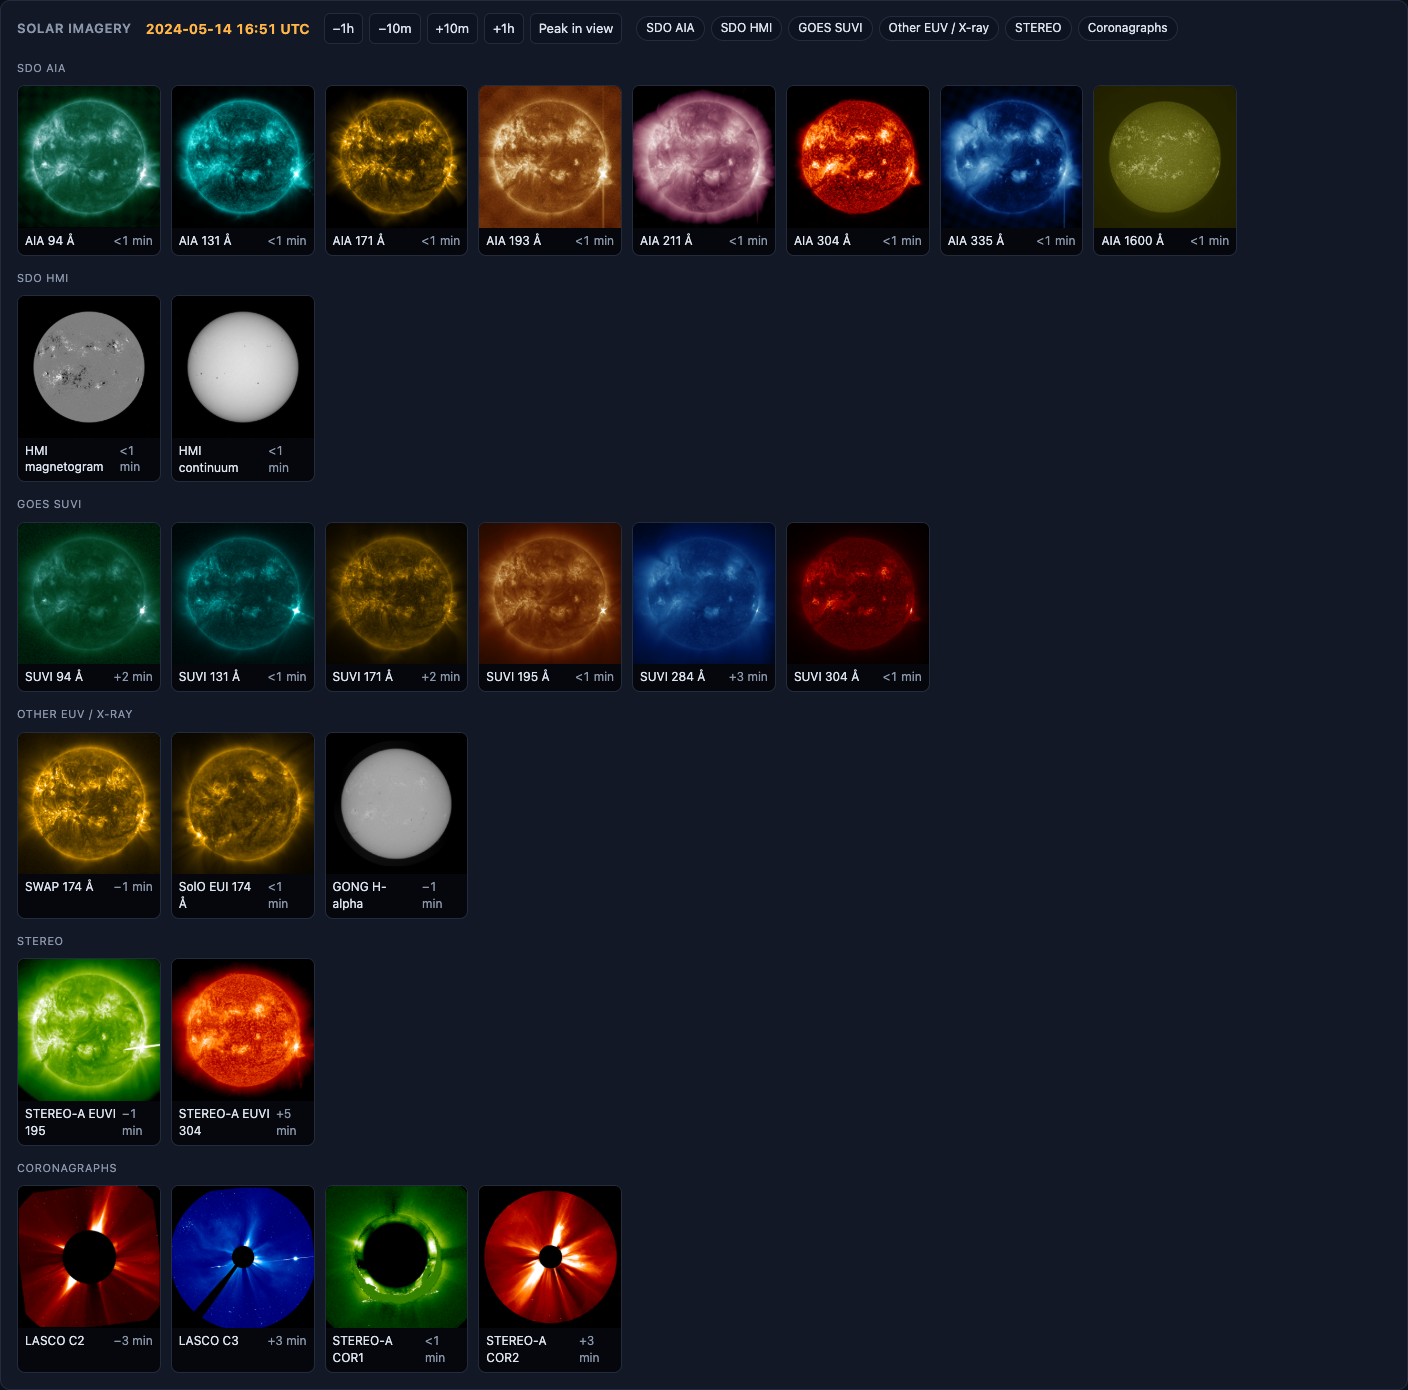
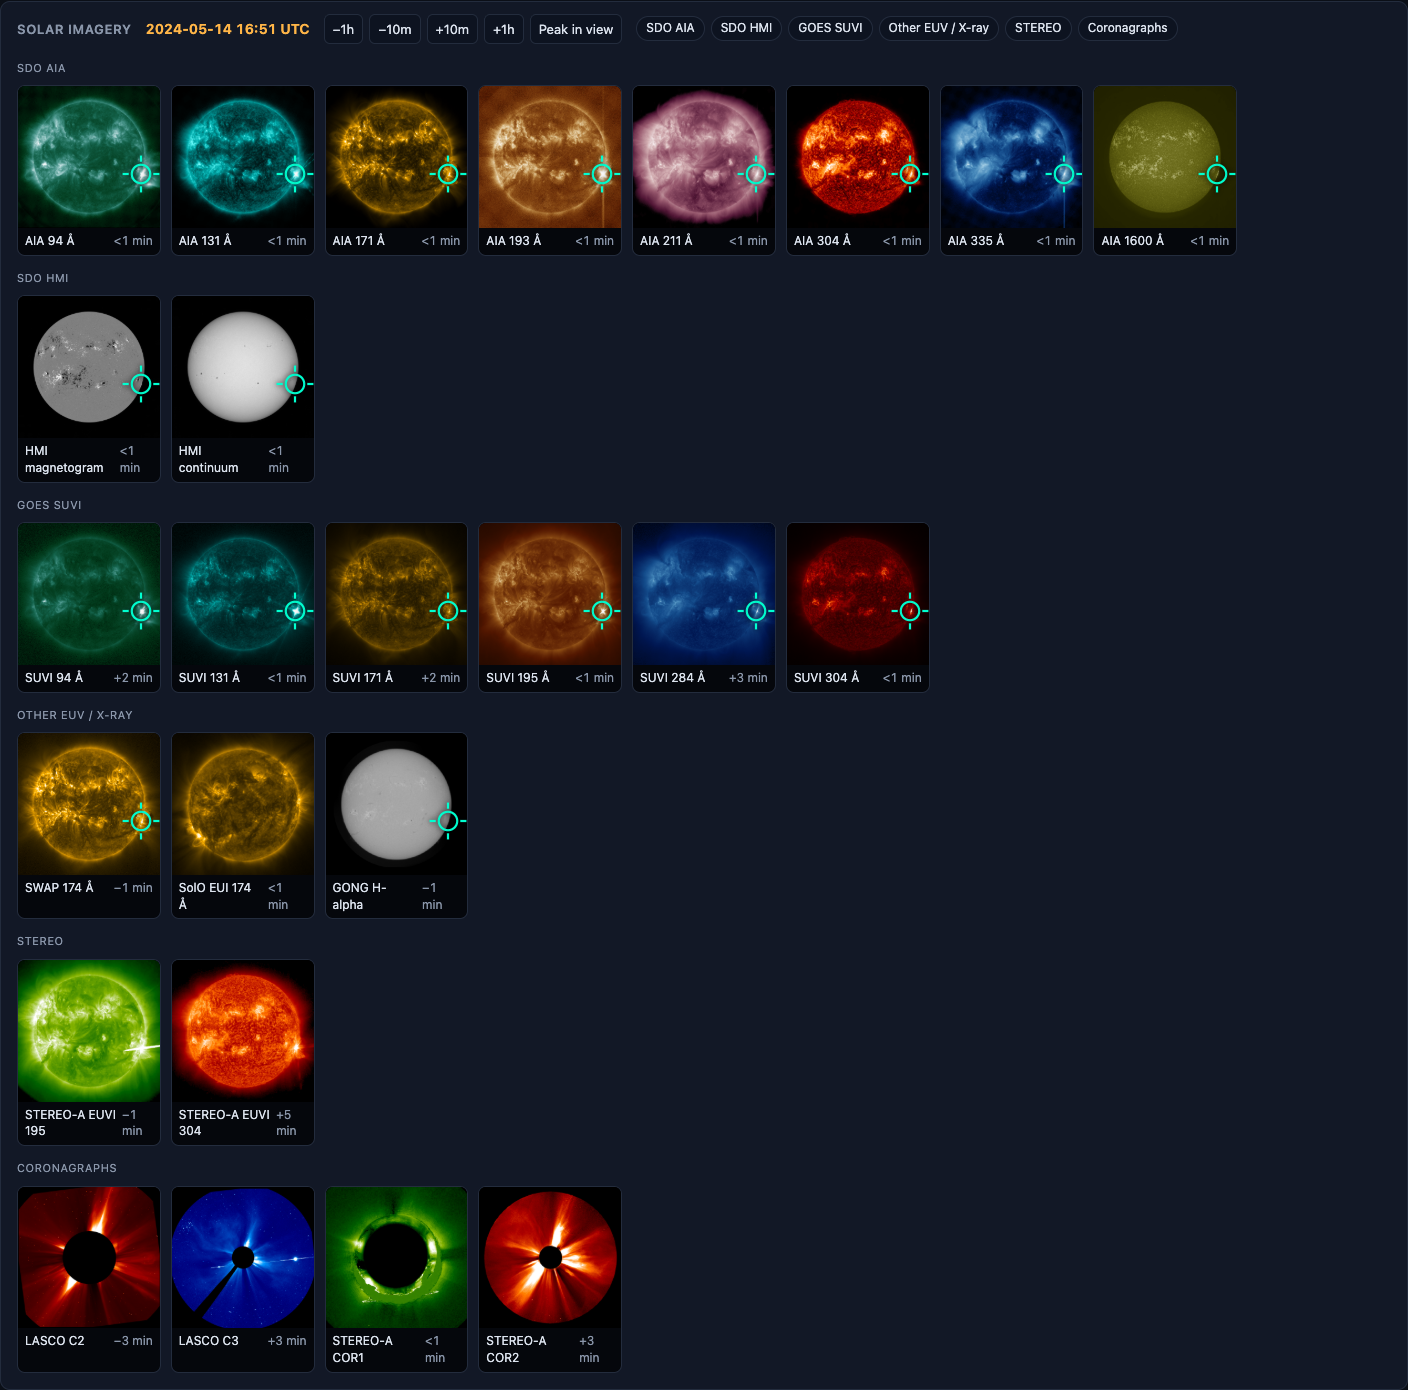
README: document impact card, Earth effects, CME chain and flare location; new screenshots

diff --git a/README.md b/README.md
@@ -20,6 +20,13 @@ watching at the moment you click.
 - **Solar imagery at any moment.** Click anywhere on the chart to see images from every sensor imaging at that
   time: SDO AIA & HMI, GOES SUVI, SOHO EIT/MDI/LASCO, STEREO, PROBA2, Hinode, GONG, TRACE, Yohkoh and more.
   Enlarge any image and step or play through time.
+- **Flare impact card.** For any flare: when it happened at the Sun vs when its X-rays reached Earth, the
+  power and energy that hit Earth, the radio-blackout level, and a globe of where shortwave radio was
+  knocked out.
+- **Effects at Earth.** Solar wind, Kp, Dst and energetic protons on the same timeline as the X-rays.
+- **CME tracking.** Coronal mass ejections on the chart, linked to the shock that hit Earth and the
+  geomagnetic storm it caused.
+- **Flare location.** A crosshair marks where the flare happened on every Earth-view solar image.
 - **Daily summary.** Flare counts per day and F10.7 radio flux.
 - **CSV export** of the 1-minute data, and **bookmarkable views** (the time window is kept in the URL).
 - **LCARS skin.** One click turns the interface into a starship-style console.
@@ -87,6 +94,51 @@ at its peak.
 
 ![Zoomed on the X8.7 flare of 2024-05-14](docs/screenshots/flare-zoom.png)
 
+### Flare impact card
+
+![Flare impact card for the X2.2 flare of 2024-05-09](docs/screenshots/impact.png)
+
+Select a flare (click it in the list, or click the chart during a flare) to open its impact card:
+
+- **Light travel.** X-rays take 490–507 s to cross the 0.98–1.02 AU gap, so the flare happened about
+  8 m 20 s before GOES saw it. The card shows both times and the Sun–Earth distance on that date.
+- **Energy at Earth.** Peak power is the peak flux × Earth's cross-section (πR⊕²). Energy is SWPC's
+  integrated flux × πR⊕², shown in kilotons of TNT. Earth intercepts only about 4.5×10⁻¹⁰ of what the flare
+  radiates.
+- **Radio blackout.** The NOAA R-scale level (R1 at M1, R2 at M5, R3 at X1, R4 at X10, R5 at X20).
+- **Globe.** Centred on the subsolar point (where the Sun was overhead), coloured by NOAA's D-RAP estimate
+  of the highest HF frequency absorbed, (10·log₁₀F + 65) MHz × cos^0.75 of the solar zenith angle. X-rays
+  only affect the dayside and are absorbed 60–100 km up; they never reach the ground. If the flare's CME
+  caused a storm, a dashed line shows the approximate auroral-oval edge for that storm's peak Kp.
+- **Consequences.** The linked CME's speed → when its shock reached Earth → the storm's G level, Kp and Dst.
+
+### Effects at Earth
+
+![Effects at Earth during the May 2024 storm](docs/screenshots/earth-effects.png)
+
+Stacked under the X-ray chart on the same time axis, so zooming or clicking either one drives both:
+
+| Row | What it shows | Source |
+|---|---|---|
+| Speed / density | Solar-wind speed (km/s) and proton density (/cm³) | NASA OMNI (1-min for windows ≤ 20 days, hourly otherwise) + SWPC real-time |
+| Bz | Interplanetary magnetic field north–south component (nT, GSM). Strongly negative Bz drives storms | OMNI + SWPC real-time |
+| Kp | Planetary K index, 3-hourly bars coloured by NOAA G-scale (Kp 5 = G1 … 9 = G5) | OMNI + SWPC |
+| Dst | Ring-current storm index (nT). Lower means a stronger storm | OMNI + Kyoto via SWPC |
+| >10 MeV protons | Energetic proton flux (pfu) with S-scale guides (10 = S1 … 10⁵ = S5) | OMNI to early 2020; GOES-16+ SGPS after (computed from the differential channels, matching SWPC to ~5 %) |
+
+Notes: OMNI lags real time by about 10 days and SWPC's live solar-wind file covers only the last ~24 h, so
+there's a short solar-wind gap just before "now". Proton data from 2020 on is downloaded per month, so zoom
+in to ≤ 200 days to load it.
+
+### CMEs and what they caused
+
+![CMEs and shock arrivals on the X-ray chart, May 2024](docs/screenshots/cme-chain.png)
+
+Blue diamonds mark CME launches (bigger = faster). A dashed arrow runs to the shock's arrival at Earth,
+labelled with the storm level it produced. Hover a diamond for speed, type and source region. From 2010 the
+links come from NASA's DONKI database. Before 2010 CMEs come from the SOHO/LASCO CDAW catalog, and are matched
+to flares by timing only.
+
 ### Solar imagery
 
 Click anywhere on the chart, or on a flare, to choose a moment. A dotted line marks it on the chart, and the
@@ -102,6 +154,11 @@ imagery panel shows the closest image from every sensor that was operating then.
 - **Click a tile** to open it large. Use **◀ prev / next ▶** (or ← →) to step through time, and **▶ play**
   (or space) to animate it, with a step of 2 min to 1 h. **Open in Helioviewer** opens that moment in
   Helioviewer for deeper analysis.
+
+- When a flare is selected, a **crosshair** marks where it happened on every image taken from Earth's
+  point of view (SDO, GOES SUVI, SOHO, PROBA2, Hinode, GONG, TRACE, Yohkoh). STEREO and Solar Orbiter view
+  the Sun from elsewhere, so they don't get one. Locations come from the Heliophysics Event Knowledgebase
+  (HEK), with NASA DONKI as a fallback.
 
 ![Enlarged AIA 131 Å image at the flare peak](docs/screenshots/lightbox.png)
 
@@ -138,6 +195,8 @@ toggles the console chirps. Press **Standard** to switch back; the app remembers
 
 ![LCARS skin](docs/screenshots/lcars.png)
 
+![LCARS impact analysis](docs/screenshots/lcars-impact.png)
+
 <details>
 <summary>Full LCARS page</summary>
 
@@ -156,6 +215,12 @@ All sources are public and free. Nothing needs an account or key.
 | Flare event lists | NOAA SWPC Warehouse FTP `ftp.swpc.noaa.gov/pub/warehouse` (`YYYY_events`) | 1996 → today |
 | F10.7 / sunspot number | SWPC Warehouse `YYYY_DSD.txt` | 1996 → last full year |
 | Solar images | [Helioviewer API](https://api.helioviewer.org/docs/v2/) (`getClosestImage`, `takeScreenshot`) | 1991 → now |
+| Solar wind, Kp, Dst, protons | NASA [OMNI](https://omniweb.gsfc.nasa.gov/) via the [CDAWeb HAPI server](https://cdaweb.gsfc.nasa.gov/hapi) (`OMNI2_H0_MRG1HR`, `OMNI_HRO_1MIN`, `OMNI_HRO_5MIN`) | 1981 → ~10 days ago |
+| >10 MeV protons (2020 →) | NOAA NCEI GOES-16+ [SGPS](https://data.ngdc.noaa.gov/platforms/solar-space-observing-satellites/goes/goes16/l2/data/sgps-l2-avg5m/) 5-min files | 2020 → yesterday |
+| Real-time tail | NOAA SWPC `json/rtsw/*`, `products/noaa-planetary-k-index.json`, `products/kyoto-dst.json`, integral protons | last 1–7 days |
+| CMEs, shocks, storms | NASA CCMC [DONKI API](https://ccmc.gsfc.nasa.gov/tools/DONKI/) (`CME`, `FLR`, `IPS`, `GST`) | 2010 → |
+| CMEs before 2010 | [SOHO/LASCO CDAW CME catalog](https://cdaw.gsfc.nasa.gov/CME_list/) | 1996 → |
+| Flare locations | [Heliophysics Event Knowledgebase (HEK)](https://www.lmsal.com/hek/), DONKI fallback | 1996 → |
 
 **Auto satellite selection**: GOES-8 (1995–2003) → GOES-12 (2003–2007) → GOES-10 (2008–09) →
 GOES-15 (2010–2017) → GOES-16 (2017–2025) → GOES-19 (2025 →). If the primary has no data for a month,
@@ -189,6 +254,9 @@ The UI is a single static page on top of a small JSON API that you can also call
 | `GET /api/images?time=…` | Closest image per sensor near a time |
 | `GET /api/img?key=aia131&date=…&size=512` | Rendered PNG for one sensor (cached) |
 | `GET /api/export.csv?start=…&end=…&sat=auto` | 1-minute CSV |
+| `GET /api/effects?start=…&end=…` | Solar wind speed/density, Bz min/max, Kp, Dst, >10 MeV protons |
+| `GET /api/cmes?start=…&end=…` | CMEs with linked flares, shock arrival and storm (Kp, Dst) |
+| `GET /api/flareloc?peak=…&cls=X8.7` | Flare position in helioprojective arcsec |
 | `GET /api/status` | Download progress and cache size |
 
 Times are ISO 8601 in UTC, e.g. `2024-05-14T16:51:00`.
@@ -202,6 +270,9 @@ solarhist/
 ├── solarhist/
 │   ├── core.py          # NOAA flux fetch/cache/downsample, SWPC FTP events & daily data
 │   ├── images.py        # Helioviewer sensor catalogue, closest-image lookup, PNG cache
+│   ├── omni.py          # solar wind / Kp / Dst / protons (OMNI HAPI, GOES SGPS, SWPC real-time)
+│   ├── cmes.py          # DONKI CME→shock→storm chain, CDAW LASCO catalog
+│   ├── flareloc.py      # flare positions from HEK (DONKI fallback)
 │   └── server.py        # FastAPI app and JSON endpoints
 ├── static/
 │   ├── index.html       # the whole UI (Plotly charts, imagery panel, both skins)
@@ -213,6 +284,10 @@ solarhist/
 
 - X-ray data: **NOAA NCEI** and the **NOAA Space Weather Prediction Center**, from the GOES XRS and EXIS
   instruments.
+- Solar wind and geomagnetic indices from **NASA OMNI** (GSFC SPDF) and the **World Data Center for
+  Geomagnetism, Kyoto** (Dst); Kp from **GFZ Potsdam** via NOAA SWPC. CME, shock and storm links from
+  **NASA CCMC DONKI** and the **CDAW SOHO/LASCO CME catalog**. Flare locations from the **Heliophysics
+  Event Knowledgebase** (LMSAL).
 - Solar imagery via **[Helioviewer](https://helioviewer.org)** (ESA/NASA). Image data courtesy of the NASA
   SDO, ESA/NASA SOHO, NASA STEREO, ESA PROBA2, JAXA/NASA Hinode, NOAA GOES SUVI/CCOR, NSO GONG, NASA TRACE,
   ISAS Yohkoh and ESA/NASA Solar Orbiter teams.
